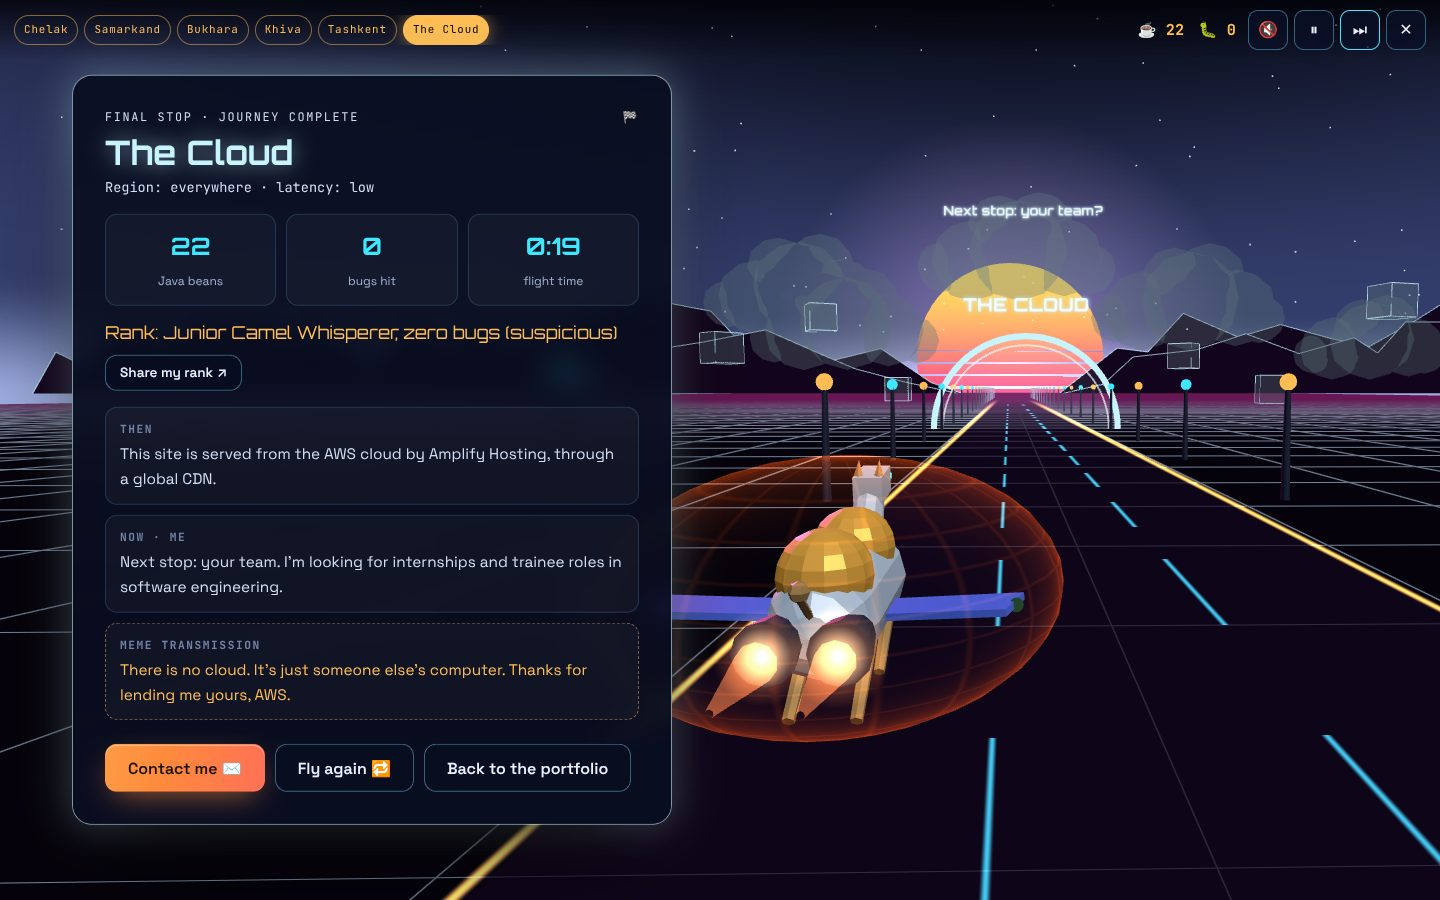
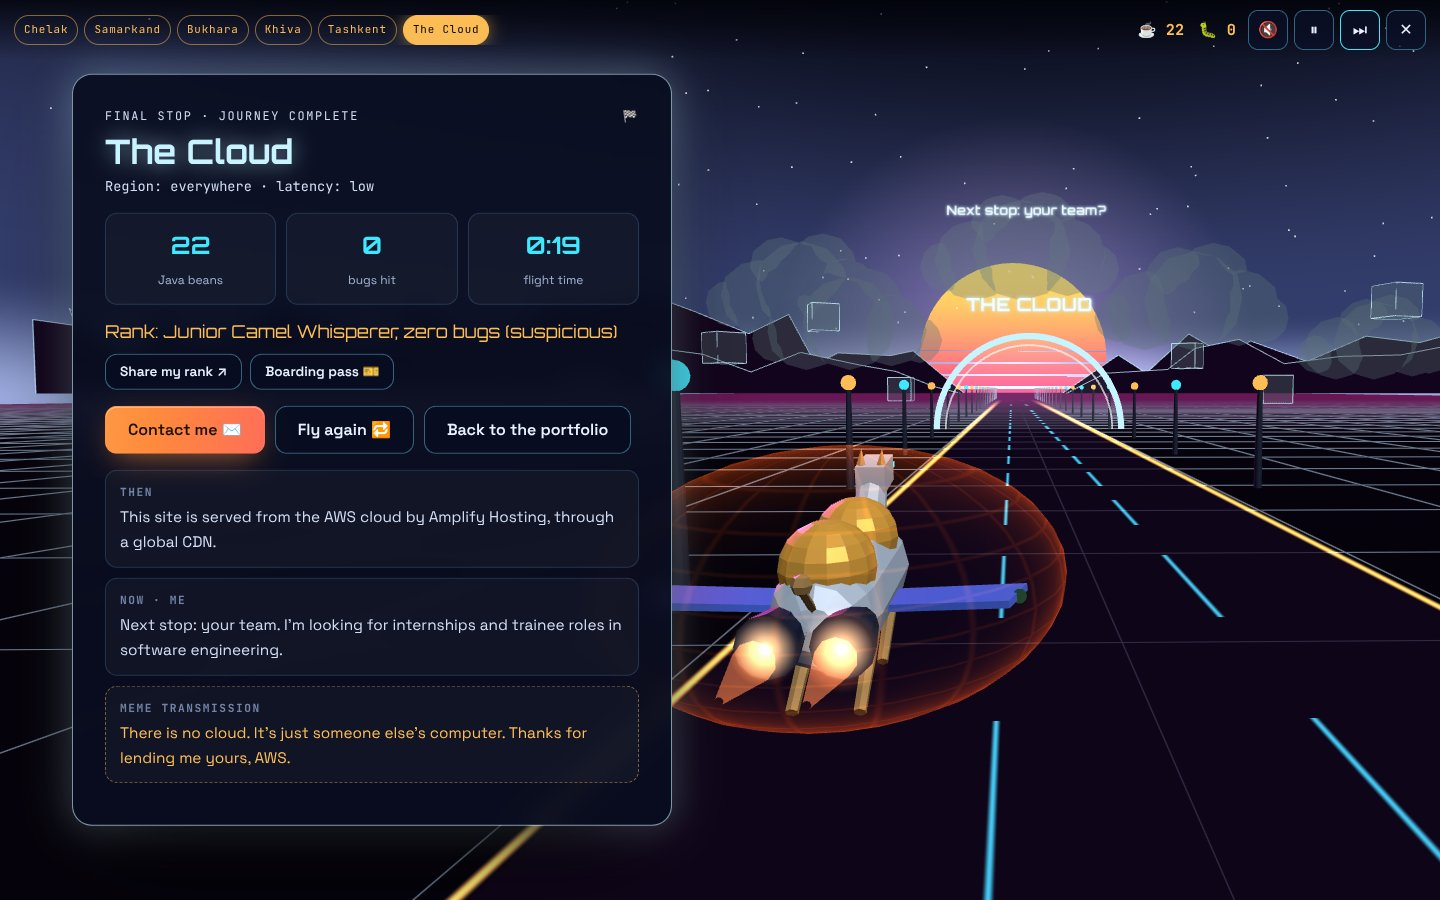
Show the boarding pass button in the final-card screenshot
Claude-Session: https://claude.ai/code/session_01StPHSgkzNaFnDzXNA6GNi1

diff --git a/README.md b/README.md
@@ -56,7 +56,7 @@ The game never gets in the way of the portfolio:
 | --- | --- |
 | ![Flying the camel spaceship down the neon road](docs/screenshots/game-play.jpg) | ![The camel inside an orange AccessDenied bubble, with the journey progress line at the top](docs/screenshots/game-shield.jpg) |
 | **A station** | **The finish** |
-| ![The Samarkand station card next to a hologram Registan](docs/screenshots/game-station-samarkand.jpg) | ![The Cloud: score, rank, share button and contact buttons](docs/screenshots/game-end.jpg) |
+| ![The Samarkand station card next to a hologram Registan](docs/screenshots/game-station-samarkand.jpg) | ![The Cloud: 22 Java beans, the rank Junior Camel Whisperer, the share and boarding pass buttons, and contact buttons](docs/screenshots/game-end.jpg) |
 
 ### Small things to find
 
